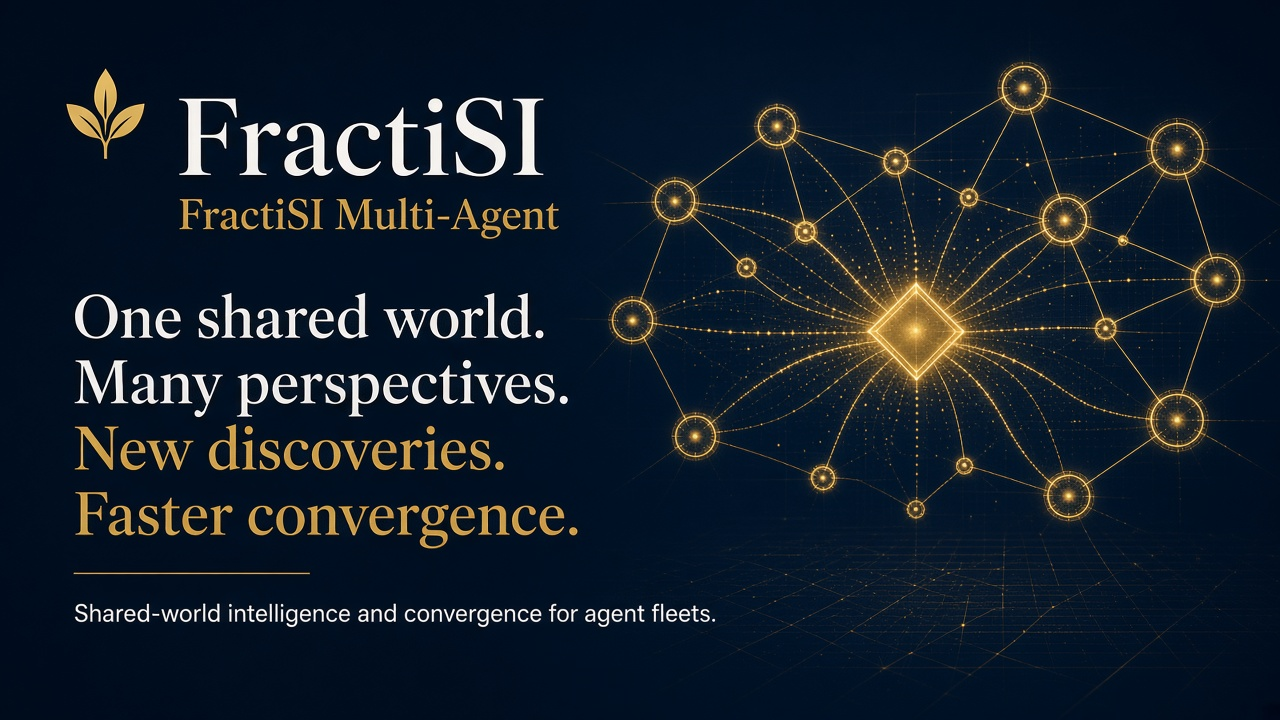
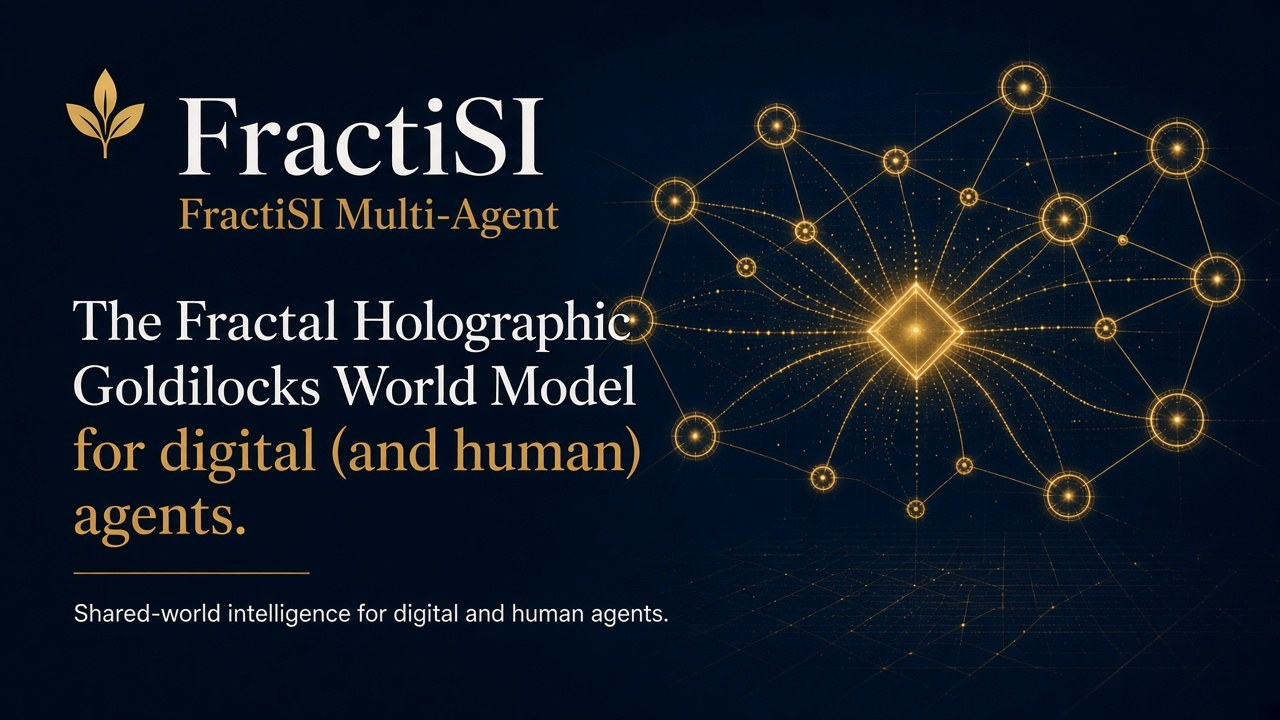
Update landing hero image to World Model tagline

diff --git a/index.html b/index.html
@@ -39,7 +39,7 @@
         <a class="btn-ghost" href="https://github.com/FractiAI/FractiSI-Multi-Agent">Clone the kit</a>
       </div>
     </div>
-    <img class="stage-visual" src="media/fractisi-hero.jpg?v=21" alt="FractiSI: many gold agent perspectives converging into one shared world.">
+    <img class="stage-visual" src="media/fractisi-hero.jpg?v=22" alt="FractiSI Multi-Agent: The Fractal Holographic Goldilocks World Model for digital (and human) agents.">
   </section>
 
   <main class="wrap">
